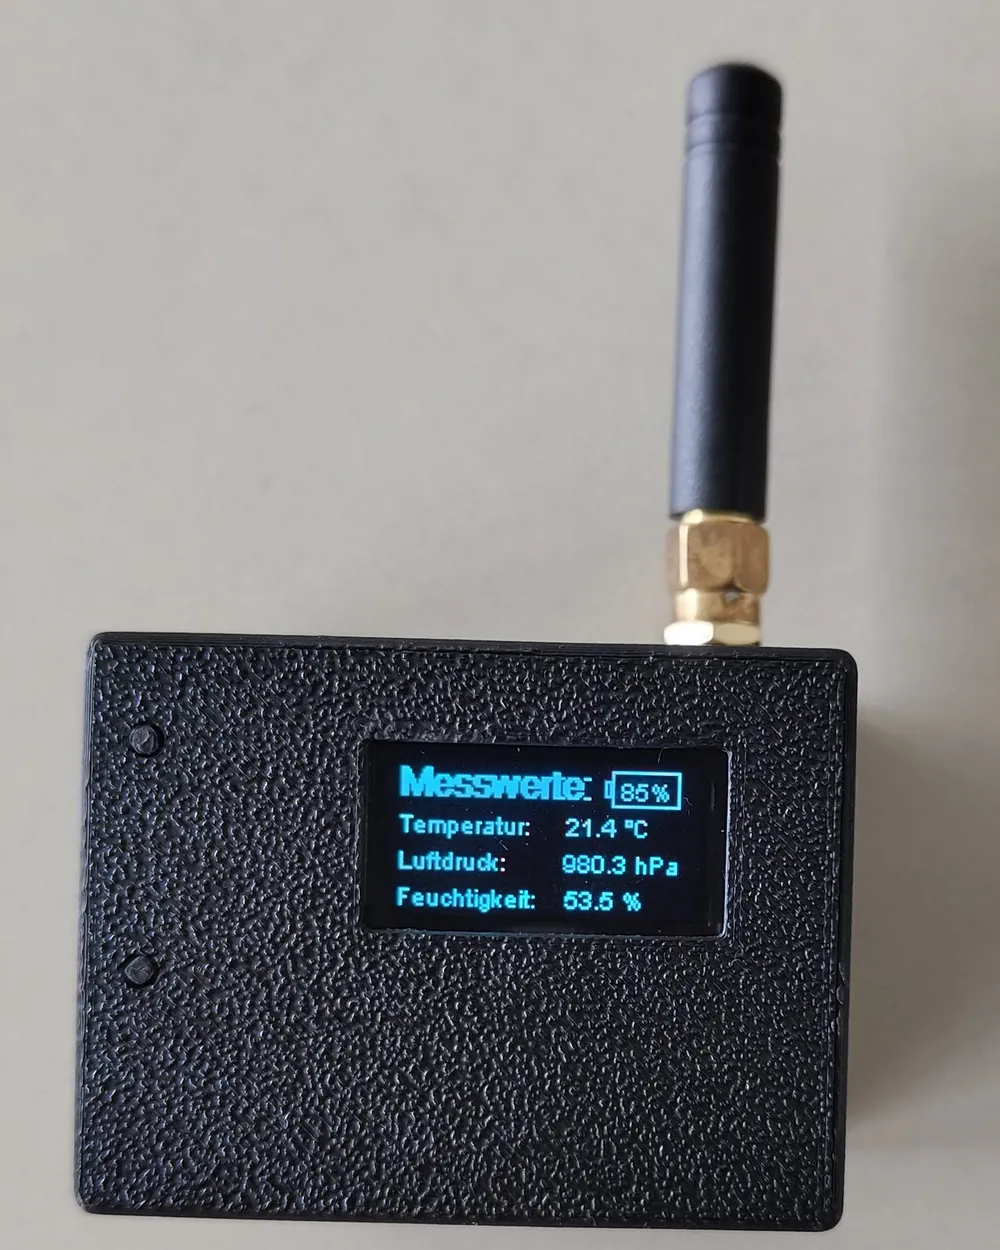
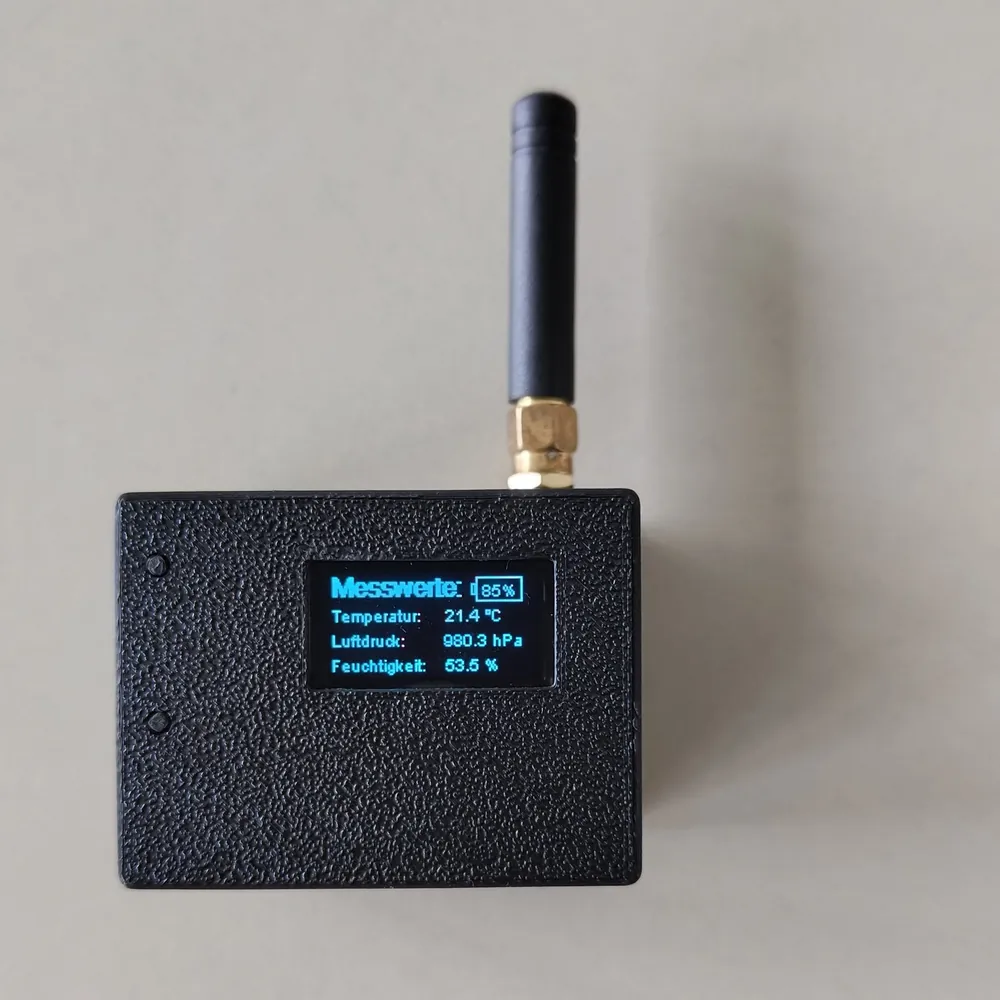
LinkedIn-Link, neue quadratische Fotos der Wetter-Station

diff --git a/index.html b/index.html
@@ -44,7 +44,7 @@
     "jobTitle": "Fachinformatiker für Anwendungsentwicklung",
     "email": "mailto:giacomo2003de@gmail.com",
     "address": { "@type": "PostalAddress", "addressLocality": "Metzingen", "addressCountry": "DE" },
-    "sameAs": ["https://github.com/GiacomoGreco1"],
+    "sameAs": ["https://github.com/GiacomoGreco1", "https://www.linkedin.com/in/giacomo-greco-5281221b2/"],
     "knowsLanguage": ["it", "de", "en"]
   }
   </script>
@@ -288,12 +288,12 @@
           <!-- P/05 Wetter-Station -->
           <article class="project project--stack reveal" aria-labelledby="p-wetter">
             <div class="shots-row">
-              <figure class="shot shot--portrait">
-                <a class="zoom" href="assets/img/wetter-station-1.webp"><img src="assets/img/wetter-station-1.webp" width="1000" height="1250" loading="lazy" decoding="async"
+              <figure class="shot shot--square">
+                <a class="zoom" href="assets/img/wetter-station-1.webp"><img src="assets/img/wetter-station-1.webp" width="1000" height="1000" loading="lazy" decoding="async"
                      alt="Wetter-Station: schwarzes, 3D-gedrucktes Gehäuse mit Antenne und leuchtendem OLED-Display" data-i18n-alt="altWetter"></a>
               </figure>
-              <figure class="shot shot--portrait">
-                <a class="zoom" href="assets/img/wetter-station-2.webp"><img src="assets/img/wetter-station-2.webp" width="1000" height="1250" loading="lazy" decoding="async"
+              <figure class="shot shot--square">
+                <a class="zoom" href="assets/img/wetter-station-2.webp"><img src="assets/img/wetter-station-2.webp" width="1000" height="1000" loading="lazy" decoding="async"
                      alt="Wetter-Station von oben: Das OLED zeigt Temperatur, Luftdruck und Luftfeuchtigkeit" data-i18n-alt="altWetter2"></a>
               </figure>
             </div>
@@ -409,8 +409,7 @@
 
         <ul class="contact-links reveal">
           <li><a href="https://github.com/GiacomoGreco1" target="_blank" rel="noopener me">GitHub<span class="arr" aria-hidden="true">↗</span></a></li>
-          <!-- TODO: eigene LinkedIn-URL eintragen -->
-          <li><a href="https://www.linkedin.com/in/DEIN-PROFIL" target="_blank" rel="noopener me">LinkedIn<span class="arr" aria-hidden="true">↗</span></a></li>
+          <li><a href="https://www.linkedin.com/in/giacomo-greco-5281221b2/" target="_blank" rel="noopener me">LinkedIn<span class="arr" aria-hidden="true">↗</span></a></li>
           <li><a href="assets/cv.pdf" target="_blank" rel="noopener"><span data-i18n="ctaCv">Lebenslauf (PDF)</span><span class="arr" aria-hidden="true">↗</span></a></li>
         </ul>
       </div>

diff --git a/assets/css/style.css b/assets/css/style.css
@@ -429,6 +429,7 @@ strong { font-weight: 600; color: var(--ink); }
 .shots-row { display: grid; grid-template-columns: 1fr 1fr; gap: 12px; }
 .private { font: 400 .78rem/1.5 var(--mono); letter-spacing: .02em; color: var(--mute); }
 .shot--portrait { aspect-ratio: 4 / 5; }
+.shot--square { aspect-ratio: 1 / 1; }
 .shot .zoom { display: block; height: 100%; cursor: zoom-in; }
 .shot .zoom:focus-visible { outline-offset: -4px; }
 .shot--phone  { aspect-ratio: 9 / 16; width: min(100%, 300px); }
